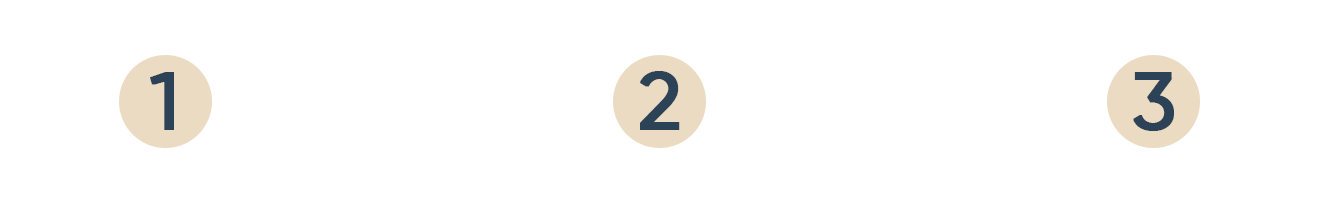
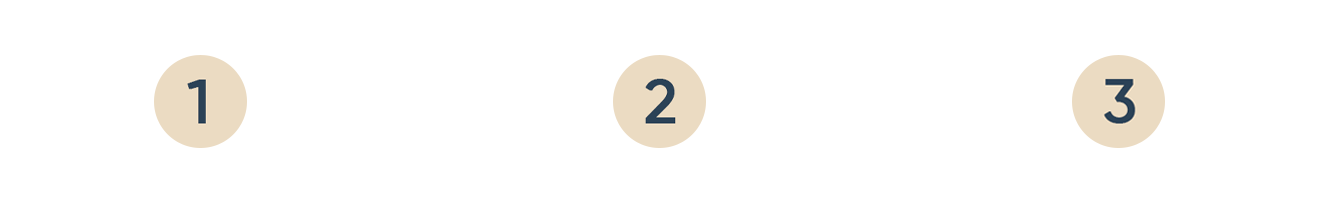
Finalizando responsividade de todas as páginas prontas

diff --git a/src/components/Home/About.vue b/src/components/Home/About.vue
@@ -3,23 +3,26 @@
         <div class="container">
             <h2 class="topic">Sobre Nós</h2>
             <div class="row">
-                <img class="col-lg-12 image" src="../../assets/images/foto-sobre-nos.png" alt="">
+                <img data-aos="fade-right" class="image" src="../../assets/images/foto-sobre-nos.png" alt="Foto com números apresentando pensamentos da empresa">
             </div>
-            <div class="row">
-                <div class="col-4">
-                    <h3 class="subtopic text">Missão</h3>
+            <div data-aos="fade-left" class="row">
+                <div class="col-md-12 col-lg-4">
+                    <img data-aos="fade-right" class="image-smartphone" src="../../assets/images/circulo-1.png" alt="Círculo com número 1">
+                    <h3 class="subtopic">Missão</h3>
                     <p class="paragraph text-left">A missão da ZXY Tecnologia é transformar a maneira como o mundo se conecta, simplificando 
                         e otimizando processos por meio de soluções tecnológicas inovadoras. Buscamos constantemente superar os limites do 
                         possível, desenvolvendo produtos e serviços que impulsionam a eficiência, a produtividade e o progresso.</p>
                 </div>
-                <div class="col-4">
-                    <h3 class="subtopic text">Visão</h3>
+                <div class="col-md-12 col-lg-4">
+                    <img data-aos="fade-right" class="image-smartphone" src="../../assets/images/circulo-2.png" alt="Círculo com número 2">
+                    <h3 class="subtopic">Visão</h3>
                     <p class="paragraph text-center">A ZXY Tecnologia enxerga um mundo onde a inovação é a força motriz para o progresso. 
                         Com uma visão centrada no futuro, a empresa busca constantemente criar soluções tecnológicas 
                         revolucionárias que transformam a maneira como vivemos e trabalhamos.</p>
                 </div>
-                <div class="col-4">
-                    <h3 class="subtopic text">Valores</h3>
+                <div class="col-md-12 col-lg-4">
+                    <img data-aos="fade-right" class="image-smartphone" src="../../assets/images/circulo-3.png" alt="Círculo com número 3">
+                    <h3 class="subtopic">Valores</h3>
                     <p class="paragraph text-right">Os valores fundamentais da ZXY Tecnologia são a inovação, integridade, excelência e 
                         colaboração. Acreditamos que a inovação é a chave para criar soluções tecnológicas disruptivas e impactar 
                         positivamente a sociedade. Valorizamos a integridade em todas as nossas ações, mantendo altos padrões 
@@ -47,22 +50,40 @@
     }
     .text-center{
         text-align: center;
+        padding: 0 10px;
     }
 
     .text-left{
-        text-align: left;
+        text-align: center;
+        padding-right: 30px;
     }
 
     .text-right{
-        text-align: right;
+        text-align: center;
+        padding-left: 30px;
     }
 
-    .text{
-        padding-bottom: 20px;
-    }
     .subtopic{
         font-weight: 600;
         text-align: center;
+        padding-bottom: 20px;
+    }
+
+    .image-smartphone{
+        display: none;
+    }
+
+    @media (max-width: 991px){
+        .image{
+            display: none;
+        }
+
+        .image-smartphone{
+            padding: 60px 0 30px;
+            display: block;
+            width: 15%;
+            margin: 0 auto;
+        }
     }
 
 </style>

diff --git a/src/components/Home/Hero.vue b/src/components/Home/Hero.vue
@@ -9,7 +9,7 @@
                             desenvolvimento de aplicações desktop e suporte a infraestrutura com especialidade em cloud.</p>
                         </div>
                     <div class="col-md-4 col-lg-4">
-                        <img data-aos="fade-left" src="../../assets/images/macbook.png" alt="Laptop">
+                        <img class="image" data-aos="fade-left" src="../../assets/images/macbook.png" alt="Laptop">
                     </div>
                     <router-link data-aos="fade-right" to="/Contact" class="button" type="button">Garanta já seu orçamento</router-link>
                 </div>
@@ -64,7 +64,7 @@
         border: 1px solid #ebdbc2;
     }
 
-    img{
+    .image{
         padding-top: 10px;
         width: 400px;
     }
@@ -104,6 +104,7 @@
         }
         .button{
             margin-left: 10px;
+            margin: 0 auto;
         }
 
         img{

diff --git a/src/components/Services/Service.vue b/src/components/Services/Service.vue
@@ -54,12 +54,24 @@
     padding-bottom: 20px;
 }
 
-.col-lg-4{
-    padding-bottom: 100px;
-}
 .images{
     width: 100%;
     border-radius: 6px;
+    padding-bottom: 100px;
+}
+
+@media (max-width:767px){
+    .images{
+        padding-bottom: 20px;
+    }
+
+    .paragraph{
+        padding-bottom: 80px;
+    }
+
+    #service{
+        padding-bottom: 0;
+    }
 }
 
 

diff --git a/src/components/Contact/Contact.vue b/src/components/Contact/Contact.vue
@@ -120,16 +120,11 @@
     }
 
     @media (max-width:767px){
+        
         .text-area,
-        .paragraph{
-            width: 500px;
-        }
-    }
-
-    @media (max-width:544px){
-        .text-area,
-        .paragraph{
-            width: 285px;
+        .paragraph,
+        .input{
+            width: 100%;
         }
     }
 
